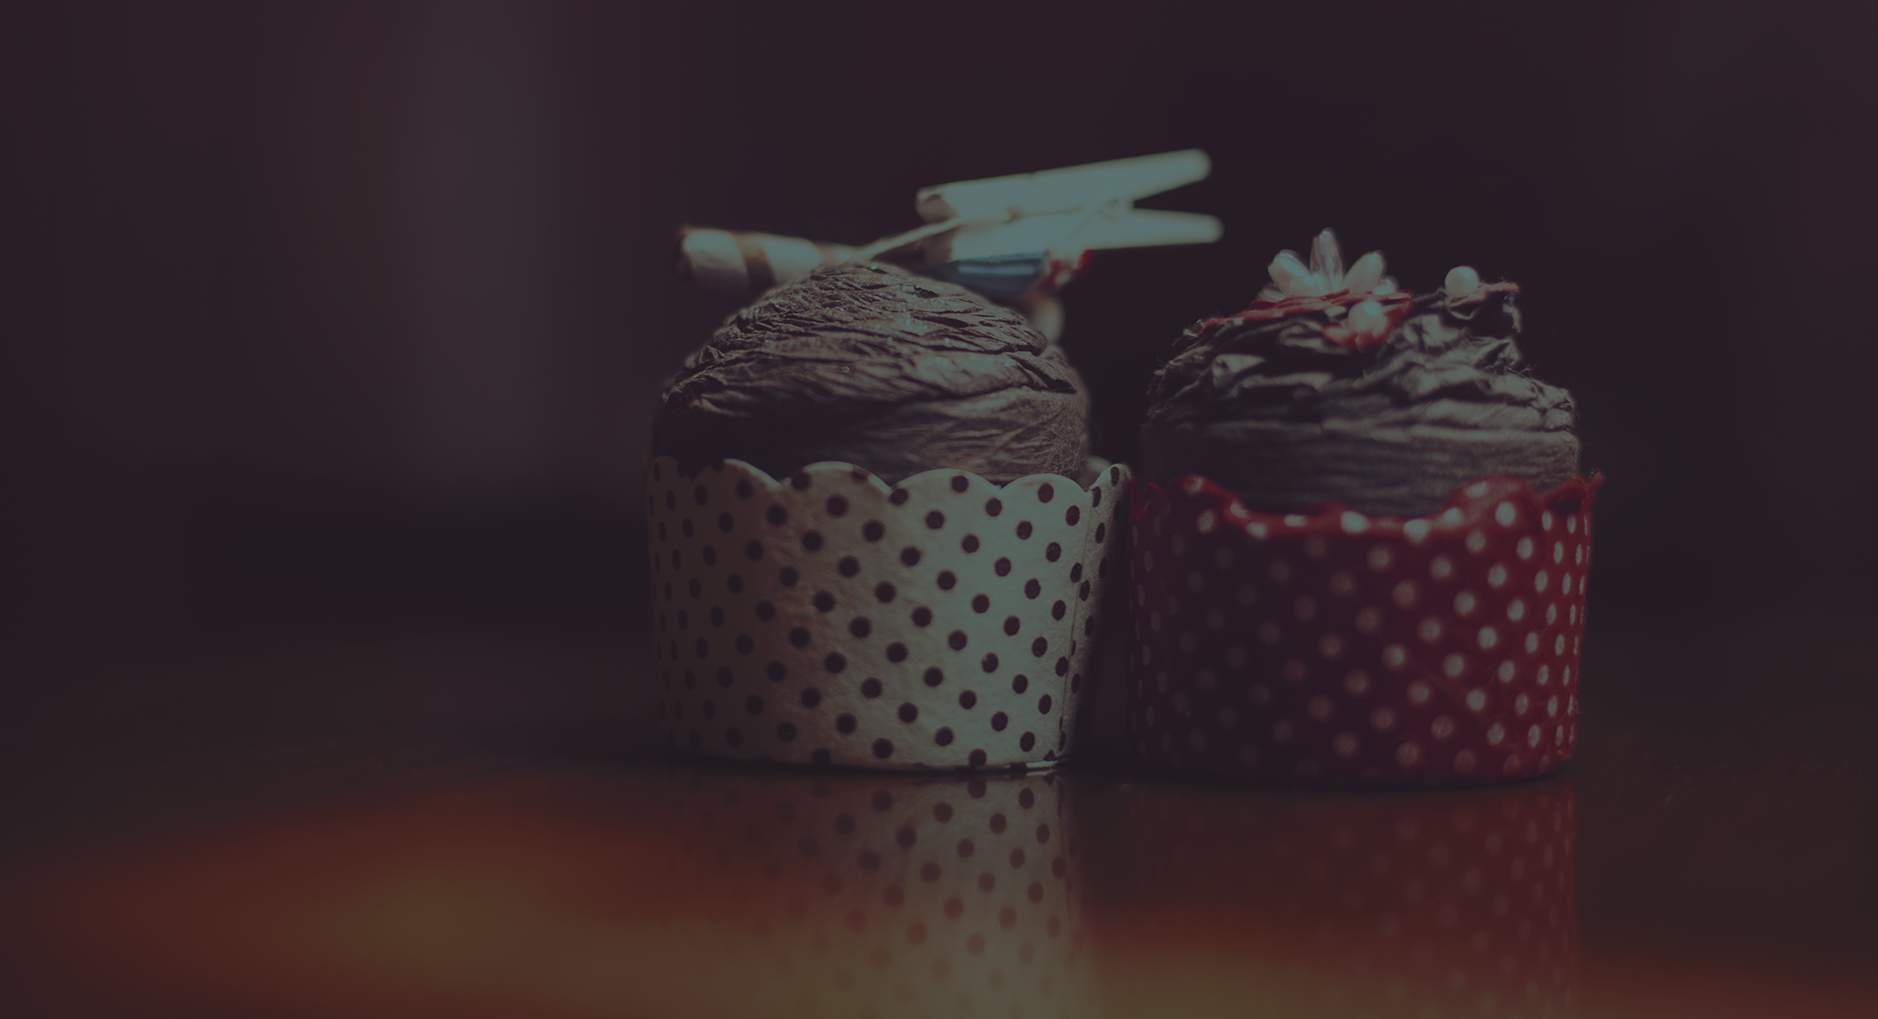
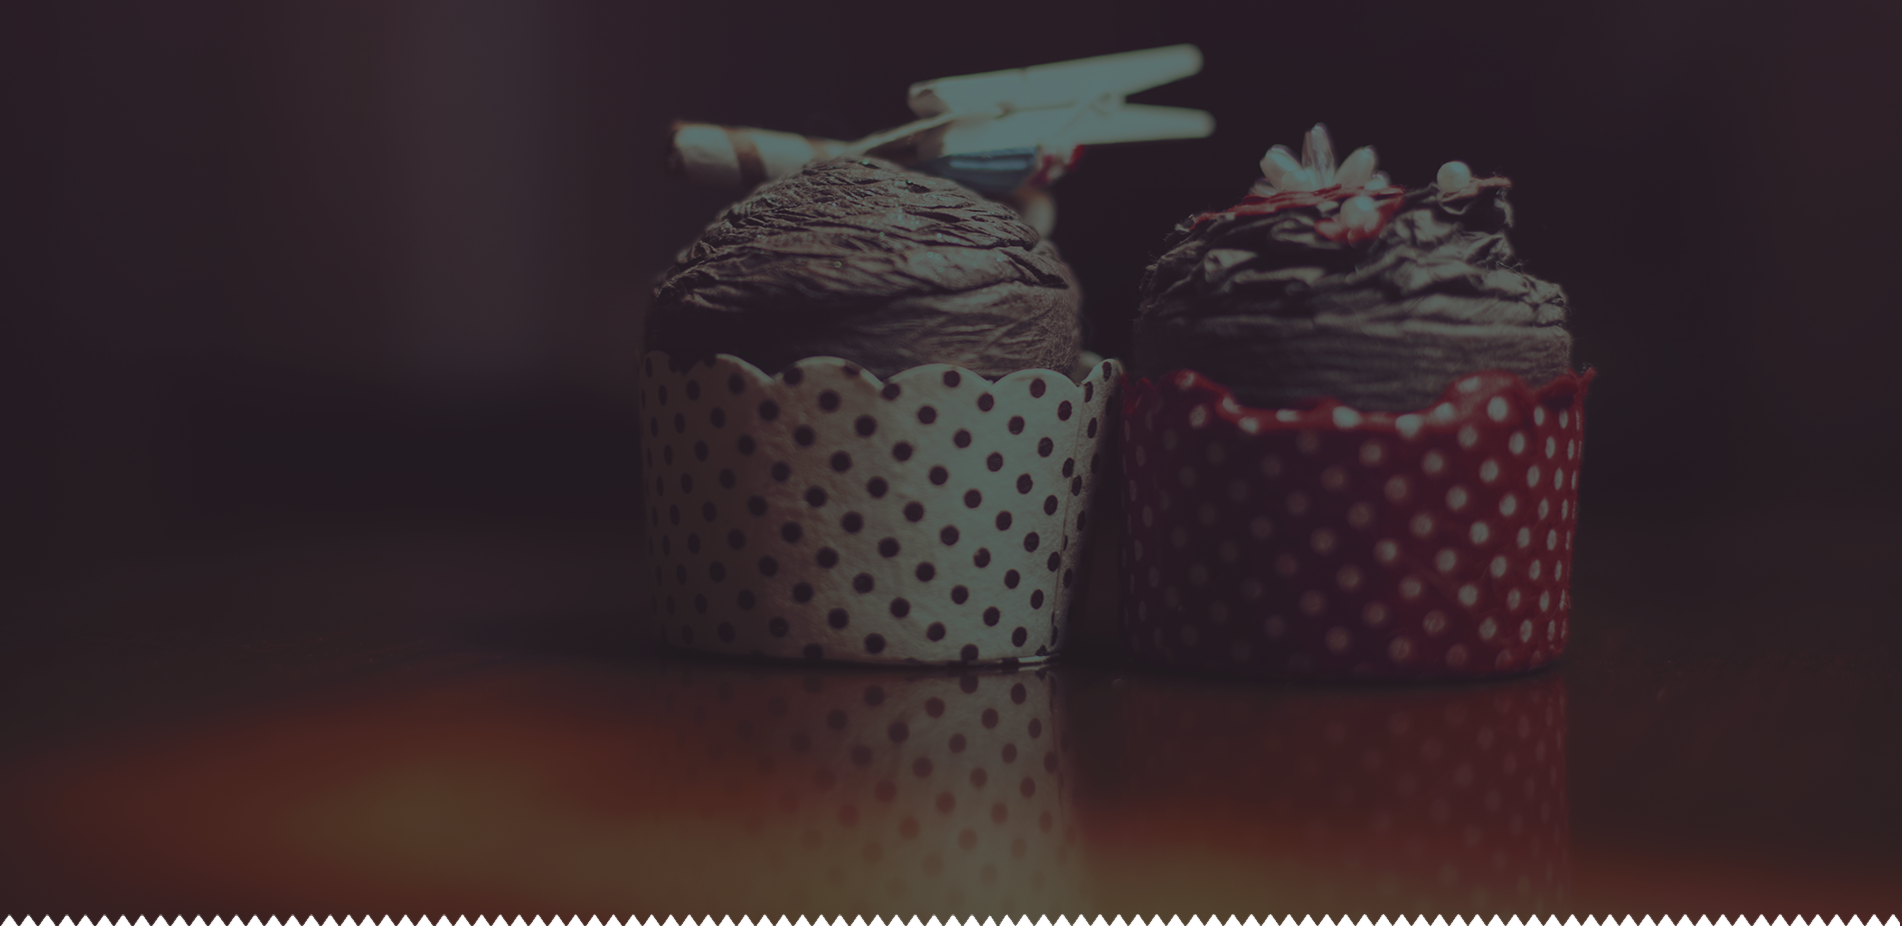
News added funtionality and updated css

Changed region(s): [[0.3397, 0.0302, 0.8647, 0.7862], [0.0, 0.9676, 1.0, 1.0]]

diff --git a/style.css b/style.css
@@ -42,6 +42,28 @@ h4 {
 	padding: 0.5% 5%;
 }
 
+.teeths {
+	width: 100%;
+	height: 16px;
+	background-size: auto;
+	position: relative;
+}
+
+.upTeeths {
+	background-image: url(./assets/images/teethUp.png);
+	margin-top: -18px;
+}
+
+.downTeeths {
+	background-image: url(./assets/images/teethDown.png);
+	margin-top: -5%;
+}
+
+.galeryTeeths {
+	margin-top: -14px;
+}
+
+
 .scrollArrow {
 	float: right;
 }
@@ -101,23 +123,17 @@ h4 {
 	margin: 4% 0 4% 0;
 }
 
+
 #newsContent {
+	position: relative;
 	display: flex;
 	justify-content: space-around;
+	align-items: center;
 	margin: 2% 0 2% 0;
 }
 
 #newsHeading {
 	margin-left: 60%
-}
-
-#newsContent article {
-	font-size: 16px;
-	letter-spacing: 1px;
-	line-height: 29px;
-	color: #38281B;
-	font-family: "Roboto";
-	font-weight: 300;
 }
 
 #newsPagination{
@@ -143,12 +159,22 @@ h4 {
 #newsSidePhoto{
 	padding: 10px;
 	border: 1px solid #000000;
-	width: 50%;
 	margin-right: 8%;
+	width: 50%;
+	max-height: 380px;
 }
 
 #newsArticle {
 	width: 40%;
+	max-height: 2%;
+	overflow: hidden;
+	display: inline-block;
+	font-size: 16px;
+	letter-spacing: 1px;
+	line-height: 29px;
+	color: #38281B;
+	font-family: "Roboto";
+	font-weight: 300;
 }
 
  /* Offer section styles*/
@@ -156,7 +182,7 @@ h4 {
 #offer {
 	width: 100%;
 	background-image: url(./assets/images/news_background.png);
-	background-size: 100% 100%;
+	background-size: cover;
 	padding: 5% 0 5% 0;
 }
 
@@ -174,14 +200,15 @@ h4 {
 }
 
 #offerContent figure {
-	margin-bottom: 15%;
+	margin: 0 0 15% 0;
 	text-align: center;
-	width: 25%;
+	width: 50%;
 }
 
 #offerContent figure img {
 	max-width: 100%;
 }
+
 
 #offerContent figure h6 {
 	font-size: 18px;
@@ -290,6 +317,7 @@ h4 {
 
 #localizationSideContent {
 	width: 100%;
+	max-height: 640px;
 }
 
 #localizationMainContent > img {
@@ -297,6 +325,8 @@ h4 {
 	border: 1px solid #ffffff;
 	margin: 4% 0 8% 0;
 	width: 100%;
+	width: auto;
+	height: 330px;
 }
 
 #localizationMainContent {
@@ -305,67 +335,14 @@ h4 {
 }
 
 #LocalizationsList {
+	height: 330px;
 	margin: 4% 0 8% 0;
 	height: 100%;
 	width: 100%;
 	margin-left: 10%;
-	display: flex;
-	flex-direction: column;
-	justify-content: center;
-}
-
-
-#LocalizationsList > :first-child {
-	border-top: 1px solid #ffffff;
-}
-
-.listItem {
-	position: relative;
-	border-width: 0 0 1px 0;
-	border-style: solid;
-	border-color: #ffffff;
-	font-size: 11px;
-	letter-spacing: 1px;
-	line-height: 17px;
-	color: #ffffff;
-	font-family: "Roboto";
-	font-weight: 300;
-}
-
-.listItem div {
-	margin: 7% 0 7% 0;
-}
-
-.listItem img {
-	vertical-align: text-top;
-}
-
-/*
-#localizationContent {
-	display: flex;
-	justify-content: center;
-	max-height: 100%;
 	overflow: hidden;
 }
 
-#localizationContent > div{
-	margin: 0 auto;
-}
-
-
-#localizationSidePhoto img{
-	padding: 10px;
-	border: 1px solid #ffffff;
-	width: 75%;
-}
-
-#LocalizationsList {
-	display: flex;
-	flex-direction: column;
-	align-items: center;
-	width: 50%;
-	max-height: 100%;
-}
 
 #LocalizationsList > :first-child {
 	border-top: 1px solid #ffffff;
@@ -391,15 +368,15 @@ h4 {
 .listItem img {
 	vertical-align: text-top;
 }
-*/
- /*Contact section styles*/
 
 #contact {
 	padding: 4% 0 4% 0;
 	width: 100%;
 	margin: 0 auto;
 	background-image: url(./assets/images/footer_icecream_background.png);
-	background-size: 100% 100%;
+	background-size: cover;
+	margin-top: -1%;
+	z-index: -1;
 }
 
 #contact h3{

diff --git a/script.js b/script.js
@@ -1,0 +1,27 @@
+
+window.onload = function() {
+    document.getElementById('newsArticle').innerHTML = newsMessagesArray[1];
+  };
+
+
+newsMessagesArray = [
+    `Lorem ipsum dolor sit amet, consectetur adipiscing elit. 
+    Sed ut placerat mi, laoreet laoreet justo. Morbi sem augue, 
+    fermentum at efficitur commodo, sollicitudin ac augue.Lorem ipsum dolor sit amet, 
+    consectetur adipiscing elit. Sed ut placerat mi, laoreet laoreet justo`,
+
+    `Pellentesque rhoncus eu orci a pulvinar. Nullam dictum id lectus eu auctor. Maecenas et
+    tincidunt neque. Nullam quis consectetur libero, commodo ultricies sapien. Donec nec leo at 
+    eros luctus laoreet eu in lacus. Curabitur sit amet diam dui. Maecenas vel auctor ipsum. `,
+
+    `Duis tellus mi, interdum id imperdiet vel, consequat eget lorem. Donec sit amet nisl fringilla,
+    aliquet ex in, maximus dui. Aliquam vitae neque erat. In mattis diam vel congue volutpat. Integer 
+    velit nisl, semper id mollis in, rhoncus sit amet justo. Quisque et augue velit.Integer 
+    velit nisl, semper id mollis in, rhoncus sit amet justo. Quisque et augue velit. `
+]
+
+document.getElementById('newsPagination').addEventListener("click", (event) => {
+    if (event.target.tagName != "FOOTER") {
+        document.getElementById('newsArticle').innerHTML = newsMessagesArray[event.target.textContent-1];
+    }
+});

diff --git a/index.php b/index.php
@@ -21,6 +21,7 @@
         </nav>
             <header>
                 <img src="<?php echo get_bloginfo('template_directory'); ?>/assets/images/main_photo.png" alt="main photo">
+                <div class="teeths upTeeths"></div>
             </header>
         <main>
             <section id="news">
@@ -34,9 +35,7 @@
                     <div id="newsContent">
                         <img id="newsSidePhoto" src="<?php echo get_bloginfo('template_directory'); ?>/assets/images/news_photo.png" alt="side photo">
                         <article id="newsArticle">
-                        Lorem ipsum dolor sit amet, consectetur adipiscing elit. Sed ut placerat mi, laoreet laoreet justo. 
-                        Morbi sem augue, fermentum at efficitur commodo, sollicitudin ac augue.Lorem ipsum dolor sit amet, consectetur adipiscing elit. Sed ut placerat mi, laoreet laoreet justo. 
-                        Morbi sem augue, fermentum at efficitur commodo, sollicitudin ac augue.
+                            
                         </article>
                     </div>  
                     <footer id="newsPagination">
@@ -46,8 +45,8 @@
                     </footer> 
                 </div>                    
             </section>
-
             <section id="offer">
+            <div class="teeths downTeeths"></div>
                 <div class="sectionContent">
                     <div id="offerHeading">
                         <h2>Nasza</h2>
@@ -77,7 +76,7 @@
                     </footer>
                 </div>
             </section>
-
+        <div class="teeths upTeeths galeryTeeths"></div>
             <section id="galery">
                 <div class="sectionContent">
                     <div id="galeryHeading">
@@ -105,8 +104,8 @@
                     </footer> 
                 </div>
             </section>
-
             <section id="localization">
+        <div class="teeths downTeeths"></div>
                 <div class="sectionContent">
                     <div id="localizationSideContent">
                         <h2>Nasze</h2>
@@ -135,16 +134,8 @@
                                                     <img src="<?php echo get_bloginfo('template_directory'); ?>/assets/images/old_phone_ico.png" alt="phone icon">
                                                     <span>Placeholder adress</span>
                                                 </div>
-                                            </div> <div class="listItem">
-                                                <div class="resteurantLocalization">
-                                                    <img src="<?php echo get_bloginfo('template_directory'); ?>/assets/images/shop_ico.png" alt="shop icon">
-                                                    <span>Placeholder localization</span>
-                                                </div>
-                                                <div class="resteurantContact">
-                                                    <img src="<?php echo get_bloginfo('template_directory'); ?>/assets/images/old_phone_ico.png" alt="phone icon">
-                                                    <span>Placeholder adress</span>
-                                                </div>
-                                            </div> <div class="listItem">
+                                            </div> 
+                                            <div class="listItem">
                                                 <div class="resteurantLocalization">
                                                     <img src="<?php echo get_bloginfo('template_directory'); ?>/assets/images/shop_ico.png" alt="shop icon">
                                                     <span>Placeholder localization</span>
@@ -154,14 +145,14 @@
                                                     <span>Placeholder adress</span>
                                                 </div>
                                             </div>
+                                            
                                         </div>
                                     </div>
-                                    <img class="scrollArrow" src="<?php echo get_bloginfo('template_directory'); ?>/assets/images/arrow_down.png" alt="arrow Down">
-                                </div>
+                                  <img id="lowerArrow" class="scrollArrow" src="<?php echo get_bloginfo('template_directory'); ?>/assets/images/arrow_down.png" alt="arrow Down">
+                               </div>
                             </div>
                     </div>
-
-                </div>
+             </div>
             </section>
             <section id="contact">
                 <div class="sectionContent">
@@ -179,28 +170,3 @@
     </body>
     <script src="<?php echo get_bloginfo('template_directory') .'/script.js'; ?>"></script>
 </html>
-
-<!--
-
-<div class="listItem">
-								<div class="resteurantLocalization">
-									<img src="<?php echo get_bloginfo('template_directory'); ?>/assets/images/shop_ico.png" alt="shop icon">
-                                    <span>Placeholder localization</span>
-								</div>
-								<div class="resteurantContact">
-									<img src="<?php echo get_bloginfo('template_directory'); ?>/assets/images/old_phone_ico.png" alt="phone icon">
-									<span>Placeholder adress</span>
-								</div>
-                            </div>
-                            <div class="listItem">
-								<div class="resteurantLocalization">
-									<img src="<?php echo get_bloginfo('template_directory'); ?>/assets/images/shop_ico.png" alt="shop icon">
-                                    <span>Placeholder localization</span>
-								</div>
-								<div class="resteurantContact">
-									<img src="<?php echo get_bloginfo('template_directory'); ?>/assets/images/old_phone_ico.png" alt="phone icon">
-									<span>Placeholder adress</span>
-								</div>
-                            </div>
-
-                            -->
